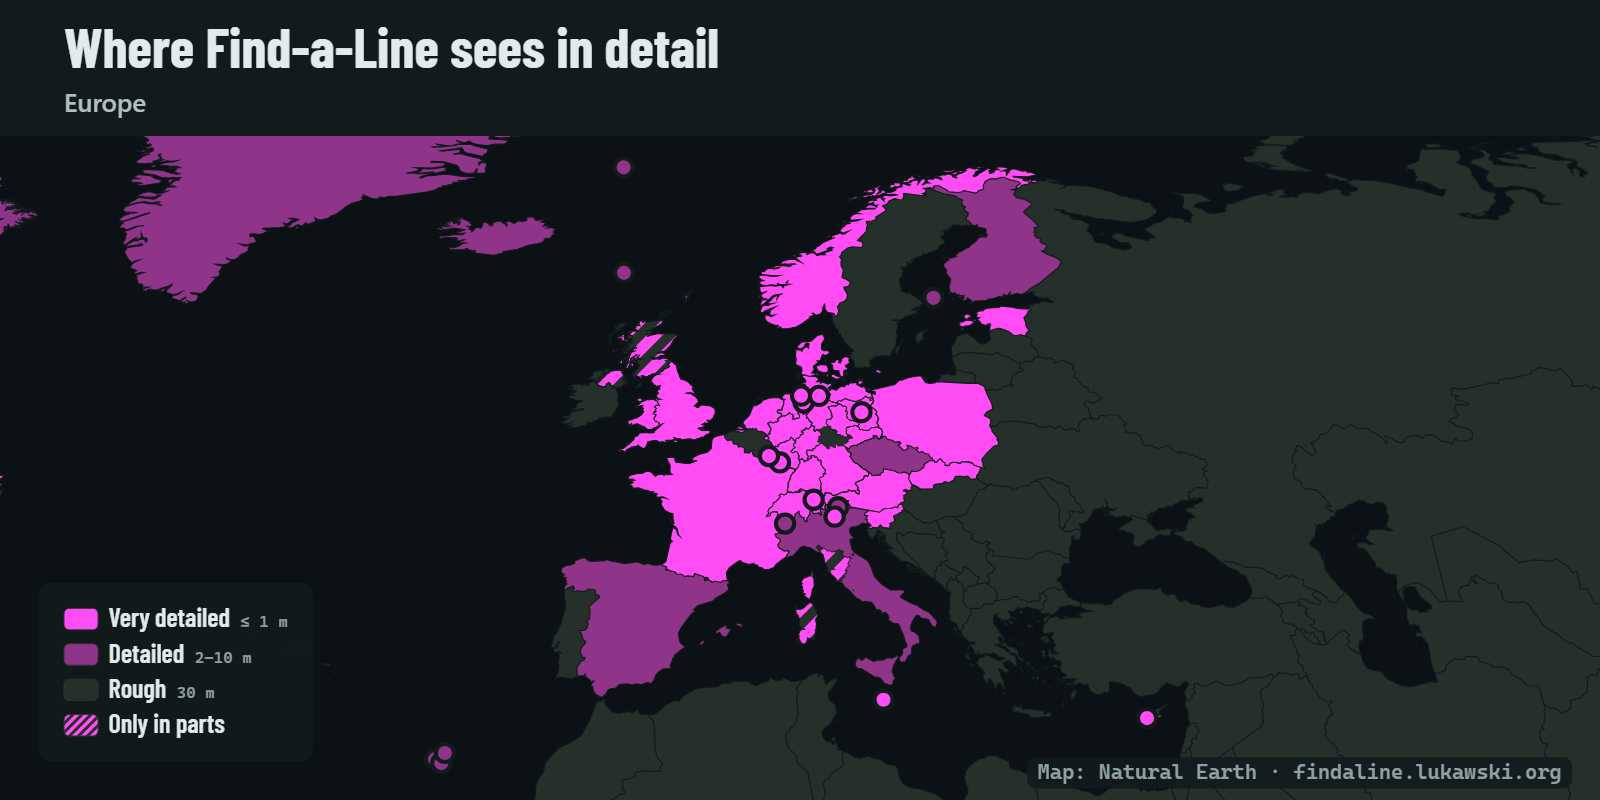
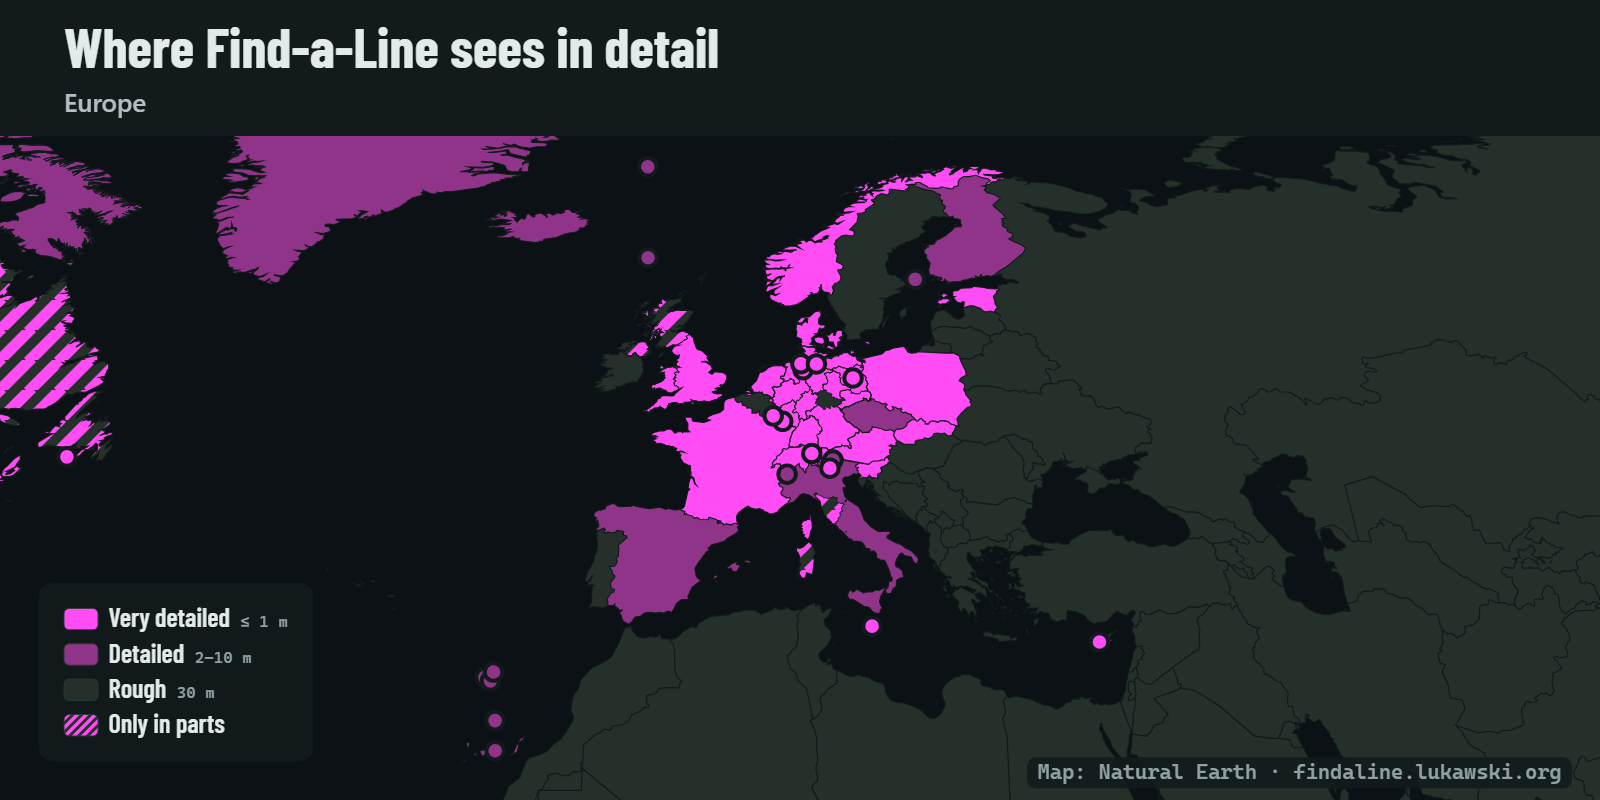
Coverage graphics and README pictures: fixes from the code review
- Europe's frame reaches 27 N: the Canaries (27.6-29.4 N) and the Selvagens were below it, so they had no view and
  the timeline left Europe after its first step.
- An area whose centre no frame shows (Greenland, Svalbard) belongs to the view that shows it nearest, within 1.6
  half-frames (`REACH`); before, they lit up only at the tour's last look at the world.
- The long tour's areas of no stop (Africa's) come in at 0.90-0.94 again, each fully in before the end.
- `ui_shots.py`: the README's pages are never in a selection of `--only` (nor in a plain run: they are a real run's,
  online, with waits of minutes); `readme_images` writes nothing when a page was shot still busy (tiles loading);
  `--readme` refuses the other selection options and removes its temporary screenshots.
- `coverage_media.py` checks its README views against the media page's.
- README: the example's first run downloads "a few thousand" orthophoto tiles, as before (this run's were cached).
- docs/images/coverage-* rendered again.

Stored data: none.

diff --git a/viewer/src/coverage/draw/world.ts b/viewer/src/coverage/draw/world.ts
@@ -13,18 +13,25 @@ export type View = "world" | Group;
 /** The frame an area's view is judged in: the README's map (1600 x 800 less its caption band). */
 const FRAME = {x: 0, y: 0, w: 1600, h: 664};
 
+/** How far beyond a frame's edge an area's centre may lie and the area still count as that view's (in half-frames
+ *  from the middle): Greenland's and Svalbard's centres lie above Europe's and North America's frames, their land in
+ *  them. */
+const REACH = 1.6;
+
 /** The view an area belongs to: of the views whose frame shows its centre, the one where it lies nearest the middle
- *  (Puerto Rico the Caribbean's, not North America's; Iceland Europe's); none when no view shows it. */
+ *  (Puerto Rico the Caribbean's, not North America's; Iceland Europe's); else the view where it lies nearest within
+ *  REACH (Greenland, Svalbard); none beyond that. */
 function homeOf(at: [number, number]): Group | null {
-  let best: Group | null = null, bestD = Infinity;
+  let inside: Group | null = null, near: Group | null = null, insideD = Infinity, nearD = Infinity;
   for (const g of GROUPS) {
     const xy = projFor(camFor(g, FRAME), FRAME)(at);
     if (!xy) continue;
     const dx = (xy[0] - FRAME.w / 2) / (FRAME.w / 2), dy = (xy[1] - FRAME.h / 2) / (FRAME.h / 2);
-    const d = Math.hypot(dx, dy);
-    if (Math.abs(dx) <= .96 && Math.abs(dy) <= .96 && d < bestD) { best = g; bestD = d; }
+    const d = Math.hypot(dx, dy), edge = Math.max(Math.abs(dx), Math.abs(dy));
+    if (edge <= .96 && d < insideD) { inside = g; insideD = d; }
+    if (edge <= REACH && d < nearD) { near = g; nearD = d; }
   }
-  return best;
+  return inside ?? near;
 }
 
 export interface World {

diff --git a/viewer/src/coverage/draw/map.ts b/viewer/src/coverage/draw/map.ts
@@ -12,7 +12,7 @@ import type { View, World } from "./world";
  *  enough for Madeira, the Canaries and Cyprus; Africa close on Réunion and Mayotte; East Asia on Japan and Hong
  *  Kong). */
 export const BOXES: Record<View, [[number, number], [number, number]]> = {
-  world: [[-170, -58], [190, 80]], europe: [[-18, 32], [35, 71.5]], na: [[-168, 16], [-52, 71]],
+  world: [[-170, -58], [190, 80]], europe: [[-18, 27], [35, 71.5]], na: [[-168, 16], [-52, 71]],
   caribbean: [[-86, 9], [-59, 27]], sa: [[-82, -56], [-34, 13]], asia: [[108, 16], [146, 44]],
   oceania: [[138, -48], [180, -10]], africa: [[22, -32], [68, 0]],
 };

diff --git a/viewer/src/coverage/media/scenes.ts b/viewer/src/coverage/media/scenes.ts
@@ -230,8 +230,8 @@ function revealSchedule(depth: Depth): Map<string, number> {
     put(GROUPS.filter(g => g !== "europe").flatMap(g => groups[g]), .82, .9);
   } else {
     for (const [v, , , a, b] of STOPS) put(groups[v as Group], a, b);
-    put(Object.keys(COVERAGE.areas).filter(id => !at.has(id)), .95, .97);
   }
+  // areas of no stop (Africa's) with the last look at the world, each fully in by the end
   put(Object.keys(COVERAGE.areas).filter(id => !at.has(id)), .9, .94);
   return at;
 }

diff --git a/tools/ui_shots.py b/tools/ui_shots.py
@@ -1243,11 +1243,12 @@ def serve(data: str, run_folder: str | None = None, fresh: bool = False, times: 
 
 def select_pages(only: str = "", exclude: str = "") -> dict:
     """The pages of PAGES whose name contains one of `only`'s comma-separated parts (all for none), less those
-    whose name contains one of `exclude`'s."""
+    whose name contains one of `exclude`'s; the README's pages (README_SHOTS) never: they are --readme's, of a real run
+    (the orthophoto and 3D view online, waits of minutes)."""
     wanted = [w for w in only.split(",") if w]
     dropped = [w for w in exclude.split(",") if w]
-    return {n: p for n, p in PAGES.items()
-            if (not wanted or any(w in n for w in wanted)) and not any(w in n for w in dropped)}
+    return {n: p for n, p in PAGES.items() if n not in README_SHOTS
+            and (not wanted or any(w in n for w in wanted)) and not any(w in n for w in dropped)}
 
 
 def page_steps(steps) -> list:
@@ -1720,13 +1721,18 @@ def shoot_all(pw, site: dict, shown: list, devices: list, themes: list, out: str
 
 def readme_images(rows: list, folder: str = README_IMAGES) -> list:
     """The README's pictures (README_SHOTS) from the rows of a --readme pass: each page's screenshot written into
-    `folder` under its README name, a .jpg at README_JPEG's quality; a page that failed or timed out writes nothing
-    and stops the run (the README keeps its old picture). Returns the paths written."""
+    `folder` under its README name, a .jpg at README_JPEG's quality; a page that failed, timed out or was shot still
+    busy (tiles loading: "unsettled") writes nothing and stops the run (the README keeps its old pictures). Returns
+    the paths written."""
     from PIL import Image
     taken = {row["page"]: row for row in rows if row.get("path")}
     missing = [name for name in README_SHOTS if name not in taken or failed([taken[name]])]
-    if missing:
-        raise SystemExit(f"the README's pictures not written: {', '.join(missing)} not taken")
+    busy = [name for name in README_SHOTS if name in taken and taken[name].get("unsettled")]
+    if missing or busy:
+        raise SystemExit("the README's pictures not written: " + "; ".join(
+            part for part in (f"{', '.join(missing)} not taken" if missing else "",
+                              f"{', '.join(busy)} still busy (map tiles or requests: run it again)" if busy else "")
+            if part))
     written = []
     for name, file in README_SHOTS.items():
         path = os.path.join(folder, file)
@@ -1772,11 +1778,15 @@ def main() -> int:
     parser.add_argument("--timings", help="a JSON file of the set-up's parts and every page's seconds and outcome")
     parser.add_argument("--strict", action="store_true", help="stop at the first wait that times out or failed step")
     args = parser.parse_args()
+    shots_temp = None
     if args.readme:
         if not args.run:
             parser.error("--readme needs --run: the README's Żabi Koń run")
-        args.devices, args.themes, args.dark = "desktop", "light", False
-        args.out = args.out or tempfile.mkdtemp(prefix="ui-shots-readme-")
+        if args.list or args.only or args.exclude or args.dark or args.themes or args.devices != "desktop,iphone,pixel":
+            parser.error("--readme takes its own pages, device and theme (README_SHOTS, the desktop, light)")
+        args.devices, args.themes = "desktop", "light"
+        if not args.out:
+            args.out = shots_temp = tempfile.mkdtemp(prefix="ui-shots-readme-")
     if not args.out and not args.list:
         parser.error("the following arguments are required: --out")
     themes = themes_of(args.dark, args.themes)
@@ -1827,6 +1837,8 @@ def main() -> int:
         interrupted = sys.exc_info()[0] is not None
         if stop:
             close(stop, times, "the server's stop")
+        if shots_temp:  # --readme's screenshots without --out: their pictures are in docs/images/ now
+            shutil.rmtree(shots_temp, ignore_errors=True)
         if not args.data_dir:  # the folder made above (tools/clean_temp.py removes those of runs that did not end)
             with timed(times, "the temporary folder's removal"):
                 gc.collect()  # SQLite connections left in reference cycles keep their files open on Windows

diff --git a/tests/test_ui_shots.py b/tests/test_ui_shots.py
@@ -469,7 +469,8 @@ def test_no_sleep_after_a_wait(tmp_path):
 def test_pages_selected_by_their_names():
     """--only: the pages whose name contains one of its parts, all for none; --exclude then drops those whose name
     contains one of its parts."""
-    assert list(ui_shots.select_pages()) == list(ui_shots.PAGES)
+    assert list(ui_shots.select_pages()) == [name for name in ui_shots.PAGES if name not in ui_shots.README_SHOTS]
+    assert not ui_shots.select_pages("readme")  # the README's pages: --readme's only
     assert set(ui_shots.select_pages("c-line,map-shared")) == {"c-line", "c-line-profile", "map-shared",
                                                                  "map-shared-credits"}
     assert set(ui_shots.select_pages("c-line,map-shared", "credits,profile")) == {"c-line", "map-shared"}
@@ -1119,3 +1120,19 @@ def test_readme_images_named_as_the_readme_shows_them(tmp_path):
     for path in written:
         with Image.open(path) as picture:
             assert picture.format == ("JPEG" if path.endswith(".jpg") else "PNG") and picture.size == (40, 30)
+
+
+def test_readme_images_refused_while_a_page_was_busy(tmp_path):
+    """A README picture shot with its map tiles still loading (a settled wait at its limit) writes nothing."""
+    from PIL import Image
+    rows = []
+    for name in ui_shots.README_SHOTS:
+        path = tmp_path / f"{name}.png"
+        Image.new("RGB", (8, 8)).save(path)
+        rows.append({"page": name, "path": str(path), "timeouts": [], "outcome": "saved", "unsettled": []})
+    rows[2]["unsettled"] = [{"after": "js:...", "busy": [ui_shots.TILES_NOTE]}]
+    out = tmp_path / "images"
+    out.mkdir()
+    with pytest.raises(SystemExit, match="readme-ortho still busy"):
+        ui_shots.readme_images(rows, str(out))
+    assert not os.listdir(out)

diff --git a/tools/coverage_media.py b/tools/coverage_media.py
@@ -326,11 +326,12 @@ class MediaPage:
         return self
 
     def _compare(self):
-        """The tool's lists of stories, lengths and formats must be the page's."""
+        """The tool's lists of stories, lengths, formats, groups and README views must be the page's."""
         info = self.info
         if (tuple(info["stories"]) != STORIES or info["lengths"] != LENGTHS
                 or {k: tuple(v) for k, v in info["formats"].items()} != FORMATS
-                or {s["group"] for s in info["statics"]} != set(GROUPS)):
+                or {s["group"] for s in info["statics"]} != set(GROUPS)
+                or {s["name"] for s in info["statics"] if s["group"] == "readme"} != {f"gh-{v}" for v in README_VIEWS}):
             raise Failure(f"the media page offers other stories, lengths, formats or groups: {info}")
 
     def __exit__(self, *exc):

diff --git a/README.md b/README.md
@@ -524,7 +524,7 @@ Run "Żabi Koń, Gaj Kobylański" saved to ...
 View it: findaline.py view 2026-11-24_201625_Zabi-Kon-Gaj-Kobylanski_03e989eef7547ac3
 ```
 
-On a 24-core PC the line search took a fraction of a second (plus a few seconds to compile the search code on the very first run); the first run in an area also downloads about 100 MB of elevation data and a few hundred orthophoto tiles.
+On a 24-core PC the line search took a fraction of a second (plus a few seconds to compile the search code on the very first run); the first run in an area also downloads about 100 MB of elevation data and a few thousand orthophoto tiles.
 
 Of the 109 spots, 24 are clear over the trees as well (pink, *Clear*); the other 85 only over the terrain (orange, *Over trees or buildings*). `findaline.py view` opens the run in the app: the spots in a list, the best ones in view numbered on the map:
 
